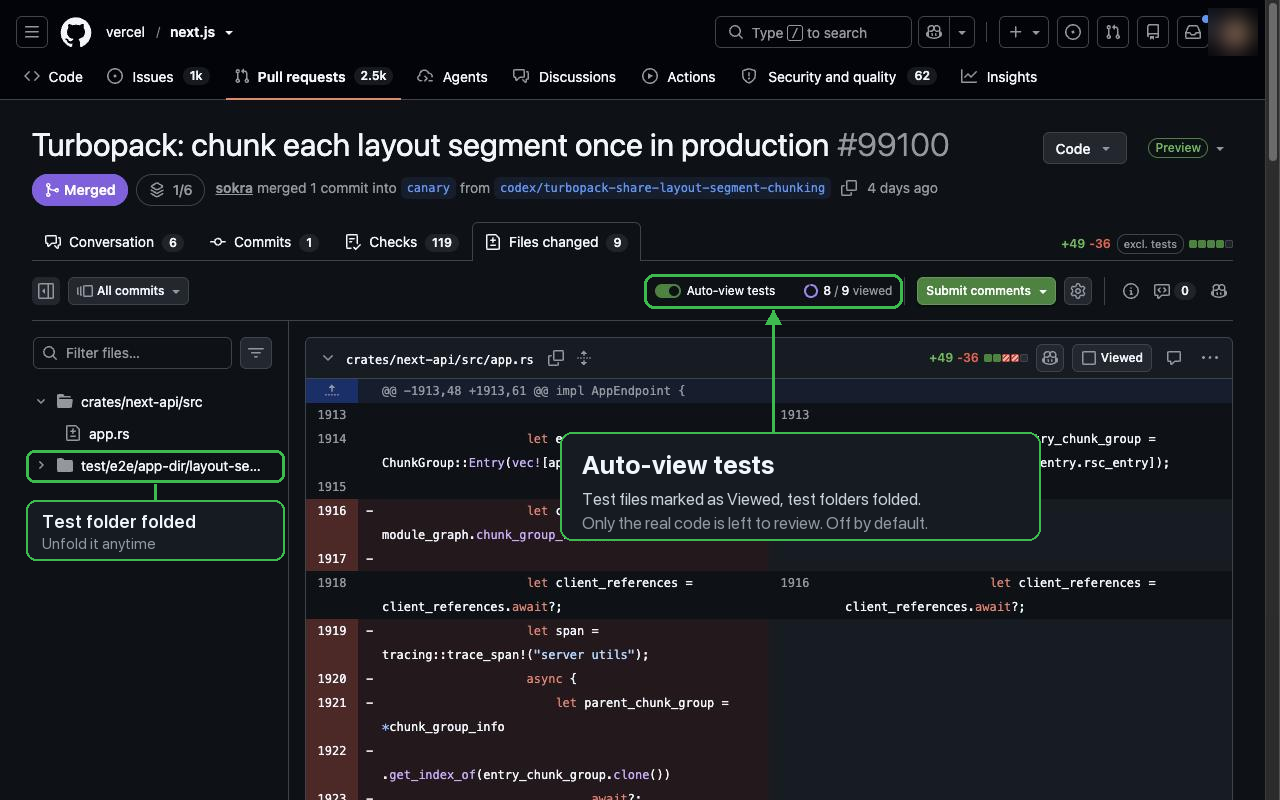
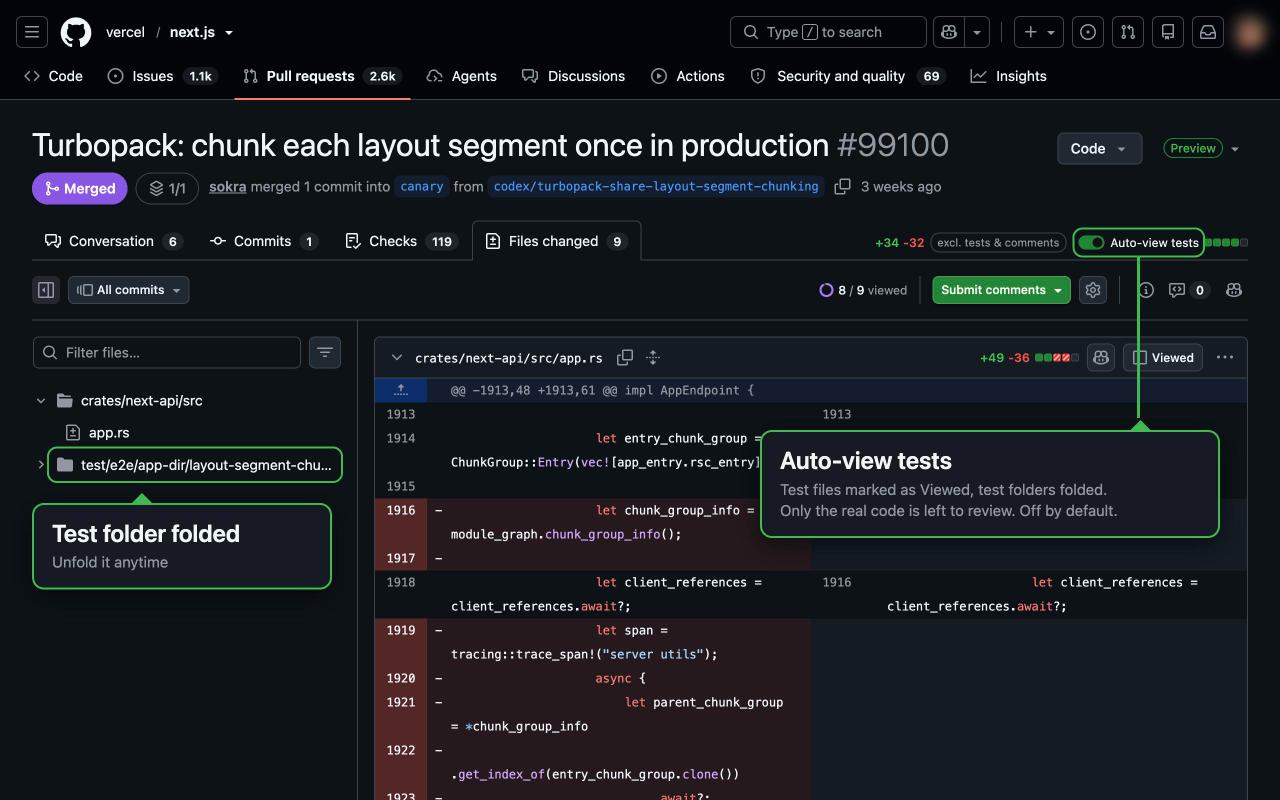
Refresh Store screenshots and description for 1.2.0
New screenshots for comments and docs, Auto-view in its new spot, and the
toolbar popup. The description covers the comments option, the docs
warning and the popup.

diff --git a/store/LISTING.md b/store/LISTING.md
@@ -5,7 +5,7 @@
 Name: PR Code Stats
 
 Summary (from manifest, 132 chars max):
-See how many lines a GitHub pull request really changes, without test files. One click to include them again.
+See how many lines a GitHub pull request really changes, without test files or comments. One click to count tests again.
 
 Category: Developer Tools
 
@@ -15,18 +15,18 @@ Description:
 
 AI coding agents write a lot of tests. A pull request that changes 180 lines of code now often shows +950 in the header, because the rest is test files. That makes it hard to judge the real size of a change at a glance.
 
-PR Code Stats replaces the line count in the pull request header with the count excluding test files. A small toggle next to it switches back to the full count, and hovering it shows the split between code and tests.
+PR Code Stats replaces the line count in the pull request header with the count of real code. Test files are left out, and if you like, comments and blank lines too. The pill next to the count switches tests back in, and hovering it shows the breakdown.
 
 Features:
 - Shows the line count without test files by default
-- One click to include tests; your choice is remembered
-- Hover for the breakdown: code vs tests, file counts, share of added lines
-- Optional "Auto-view tests" switch on the Files changed page: marks test files as Viewed and folds test folders in the file tree, so you only scroll through real code. Off by default, and turning it off undoes only what it did
-- Optional setting to leave comments and blank lines out of the count
-- Click the toolbar icon to flip any of these on or off
-- Warns when Markdown files (usually docs) are part of the count
+- Optional: leave out comments and blank lines as well
+- Flags Markdown files with a "docs" warning, so documentation doesn't pass for code
+- Hover for the breakdown: code, docs and tests, file counts, share of added lines
+- Auto-view tests on the Files changed page: marks test files as Viewed and folds test folders, so you only scroll through real code. Off by default, and turning it off undoes only what it did
+- Click the toolbar icon to switch any of these on or off
 - Works on private repositories using your existing GitHub login, no token required
-- Test file patterns are editable (regex per line) on the options page
+- An optional GitHub token lets Auto-view use GitHub's API, so it keeps working when GitHub changes its page
+- Test file patterns are editable (one regex per line) on the options page
 - Default patterns cover JavaScript/TypeScript, Python, Go, Ruby, Swift, Kotlin, Java, C#, PHP, snapshots, Cypress and Playwright
 
 Privacy: no server, no analytics, no tracking. The extension only talks to GitHub, to fetch the pull request you are viewing.
@@ -35,7 +35,13 @@ Not affiliated with or endorsed by GitHub.
 
 Assets:
 - Icon: store/store-icon-128.png
-- Screenshots (1280x800): store/screenshot-*.png
+- Screenshots (1280x800, the Store takes 5), upload in this order:
+  1. store/screenshot-3-comparison.png
+  2. store/screenshot-1-without-tests.png
+  3. store/screenshot-5-comments-and-docs.png
+  4. store/screenshot-4-auto-view-tests.png
+  5. store/screenshot-6-popup.png
+- store/screenshot-2-with-tests.png is no longer uploaded; the comparison shows the same thing
 
 ## Privacy practices tab
 
